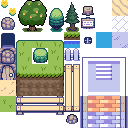
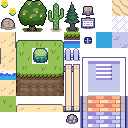
edited win screen

Changed region(s): [[0.0, 0.125, 0.125, 0.625], [0.125, 0.75, 0.5, 0.9062], [0.375, 0.0312, 0.5, 0.25]]

diff --git a/scenes/winScreen.js b/scenes/winScreen.js
@@ -2,7 +2,9 @@ function setWin(worldState) {
     
     var sound = new Howl({
         src: ['music/gggalaxy.mp3'],
+        volume: 0.7,
         loop: true
+        
     });
 
     sound.play()
@@ -16,31 +18,31 @@ function setWin(worldState) {
 
     const map = [
         addLevel([
-            '       b          ',
+            '                  ',
             ' cddddddddddddde  ',
             ' 300000000000002  ',
-            ' 300000000000000jj',
-            ' 300000000000000ll',
             ' 300000000000002  ',
-            ' 300030000008889  ',
-            ' 300030000024445  ',
-            ' 3000a8888897777  ',
-            ' 300064444457777  ',
-            ' 300000000000000  ',
-            ' 300000000021111  ',
-            ' 30000000002      ',
-            ' 11111111111      ',
-            '         b        ',
-            '  b          b    ',
-            '     b            '
+            ' 300000000000002  ',
+            ' 300000000000002  ',
+            ' 300000000000002  ',
+            ' 300000000000002  ',
+            ' 300000000000002  ',
+            ' 300000000000002  ',
+            ' 300000000000002  ',
+            ' 300000000000002  ',
+            ' 300000000000002  ',
+            ' 111111111111111  ',
+            '                  ',
+            '                  ',
+            '                  '
         ], {
             tileWidth: 16,
             tileHeight: 16,
             tiles: {
                 '7': () => makeTile('grass-m'),
-                '1': () => makeTile('grass-water'),
-                '2': () => makeTile('grass-r'),
-                '3': () => makeTile('grass-l'),
+                '1': () => makeTile('sand-bottom'),
+                '2': () => makeTile('sand-r'),
+                '3': () => makeTile('sand-l'),
                 '4': () => makeTile('ground-m'),
                 '5': () => makeTile('ground-r'),
                 '6': () => makeTile('ground-l'),
@@ -49,9 +51,9 @@ function setWin(worldState) {
                 '9': () => makeTile('grass-br'),
                 'a': () => makeTile('grass-bl'),
                 'b': () => makeTile('rock-water'),
-                'c': () => makeTile('grass-tl'),
-                'd': () => makeTile('grass-tm'),
-                'e': () => makeTile('grass-tr'),
+                'c': () => makeTile('sand-tl'),
+                'd': () => makeTile('sand-tm'),
+                'e': () => makeTile('sand-tr'),
                 'j': () => makeTile('bridge-l'),
                 'k': () => makeTile('bridge-m'),
                 'l': () => makeTile('bridge-r')
@@ -59,11 +61,11 @@ function setWin(worldState) {
         }),
         addLevel([
             '                  ',
-            '       12         ',
-            '       34         ',
+            '                  ',
+            '                  ',
             ' 00 0    00       ',
-            ' 0     00   12    ',
-            ' 0          34    ',
+            ' 0     00         ',
+            ' 0                ',
             '          0       ',
             '                  ',
             '                  ',
@@ -76,30 +78,30 @@ function setWin(worldState) {
             tileWidth: 16,
             tileHeight: 16,
             tiles: {
-                '0': () => makeTile(),
+                '0': () => makeTile('rock'),
                 '1': () => makeTile('bigtree-pt1'),
                 '2': () => makeTile('bigtree-pt2'),
                 '3': () => makeTile('bigtree-pt3'),
                 '4': () => makeTile('bigtree-pt4'),
-                '5': () => makeTile('tree-t'),
-                '6': () => makeTile('tree-b'),
+                '5': () => makeTile('cactus-t'),
+                '6': () => makeTile('cactus-b'),
             }
         }),
         addLevel([
             ' 000000000000000  ',
-            '0      11       0 ',
-            '0      11       00',
-            '0                 ',
-            '0           11    ',
-            '0           11  00',
-            '0    2         0  ',
-            '0    2      3333  ',
-            '0    2      0   0 ',
-            '0    3333333  1 0 ',
-            '0     0       1 0 ',
-            '0           0000  ',
-            '0           0     ',
-            ' 00000000000      ',
+            '0               0 ',
+            '0               0 ',
+            '0               0 ',
+            '0               0 ',
+            '0               0 ',
+            '0               0 ',
+            '0               0 ',
+            '0               0 ',
+            '0 1   2         0 ',
+            '0 1   3         0 ',
+            '0               0 ',
+            '0               0 ',
+            ' 2222222222222222 ',
             '                  '
         ], {
             tileWidth: 16,
@@ -112,18 +114,19 @@ function setWin(worldState) {
                 '1': () => [
                     area({
                         shape: new Rect(vec2(0), 8, 8),
-                        offset: vec2(4, 4)
+                        offset: vec2(4, 3)
                     }),
                     body({isStatic: true})
                 ],
                 '2': () => [
-                    area({shape: new Rect(vec2(0), 2, 16)}),
+                    area({shape: new Rect(vec2(0), 16, 16),
+                        offset: vec2(0, 4)}),
                     body({isStatic: true})
                 ],
                 '3': () => [
                     area({
-                    shape: new Rect(vec2(0), 16, 20),
-                    offset: vec2(0, -4)
+                    shape: new Rect(vec2(0), 16, 2),
+                    offset: vec2(0, 0)
                     }),
                     body({isStatic: true})
                 ]
@@ -143,7 +146,7 @@ function setWin(worldState) {
 
     const player = add([
         sprite('player-down'),
-        pos(500,750),
+        pos(450,750),
         scale(4),
         area(),
         body(),
@@ -216,6 +219,8 @@ function setWin(worldState) {
         player.stop()
     })
 
+    add([ sprite('npc'), scale(4), pos(600,750), area(), body({isStatic: true}), 'npc'])
+
 
 
     player.onCollide('npc', () => {
@@ -241,11 +246,7 @@ function setWin(worldState) {
             fixed()
         ])
 
-        if (worldState.faintedMons < 4) {
-            content.text = dialogue
-        } else {
-            content.text = "You did it! I love you, my princess!\n\n                             -Matt"
-        }
+        content.text = dialogue
 
         onUpdate(() => {
             if (isKeyDown('space')) {

diff --git a/scenes/world.js b/scenes/world.js
@@ -152,7 +152,7 @@ function setWorld(worldState) {
 
     const player = add([
         sprite('player-down'),
-        pos(500,750),
+        pos(450,750),
         scale(4),
         area(),
         body(),
@@ -249,11 +249,6 @@ function setWorld(worldState) {
     player.onCollide('npc', () => {
 
 
-        // if (worldState.ticker == 1) {
-        //     worldState.ticker += 1;
-        //     worldState.sound.play();
-        // }
-
         player.isInDialogue = true
         const dialogueBoxFixedContainer = add([fixed()])
         const dialogueBox = dialogueBoxFixedContainer.add([
@@ -278,7 +273,7 @@ function setWorld(worldState) {
         if (worldState.faintedMons.length < 4) {
             content.text = dialogue
         } else {
-            content.text = "You did it! I love you, my princess!\nPress 'ENTER' to go to the next room.\n                             -Matt"
+            content.text = "You did it! I love you, my princess!\nPress 'ENTER' to proceed.\n                             -Matt"
         }
 
         onUpdate(() => {

diff --git a/assetLoader.js b/assetLoader.js
@@ -42,7 +42,16 @@ function loadAssets() {
                 'rock-water': 60,
                 'bridge-l': 36,
                 'bridge-m': 44,
-                'bridge-r': 52
+                'bridge-r': 52,
+                'sand-bottom': 32,
+                'sand-tl': 49,
+                'sand-tm': 50,
+                'sand-tr': 51,
+                'cactus-t': 3,
+                'cactus-b': 11,
+                'sand-l': 24,
+                'sand-r': 16,
+                'rock': 8
             }
         }
     })
